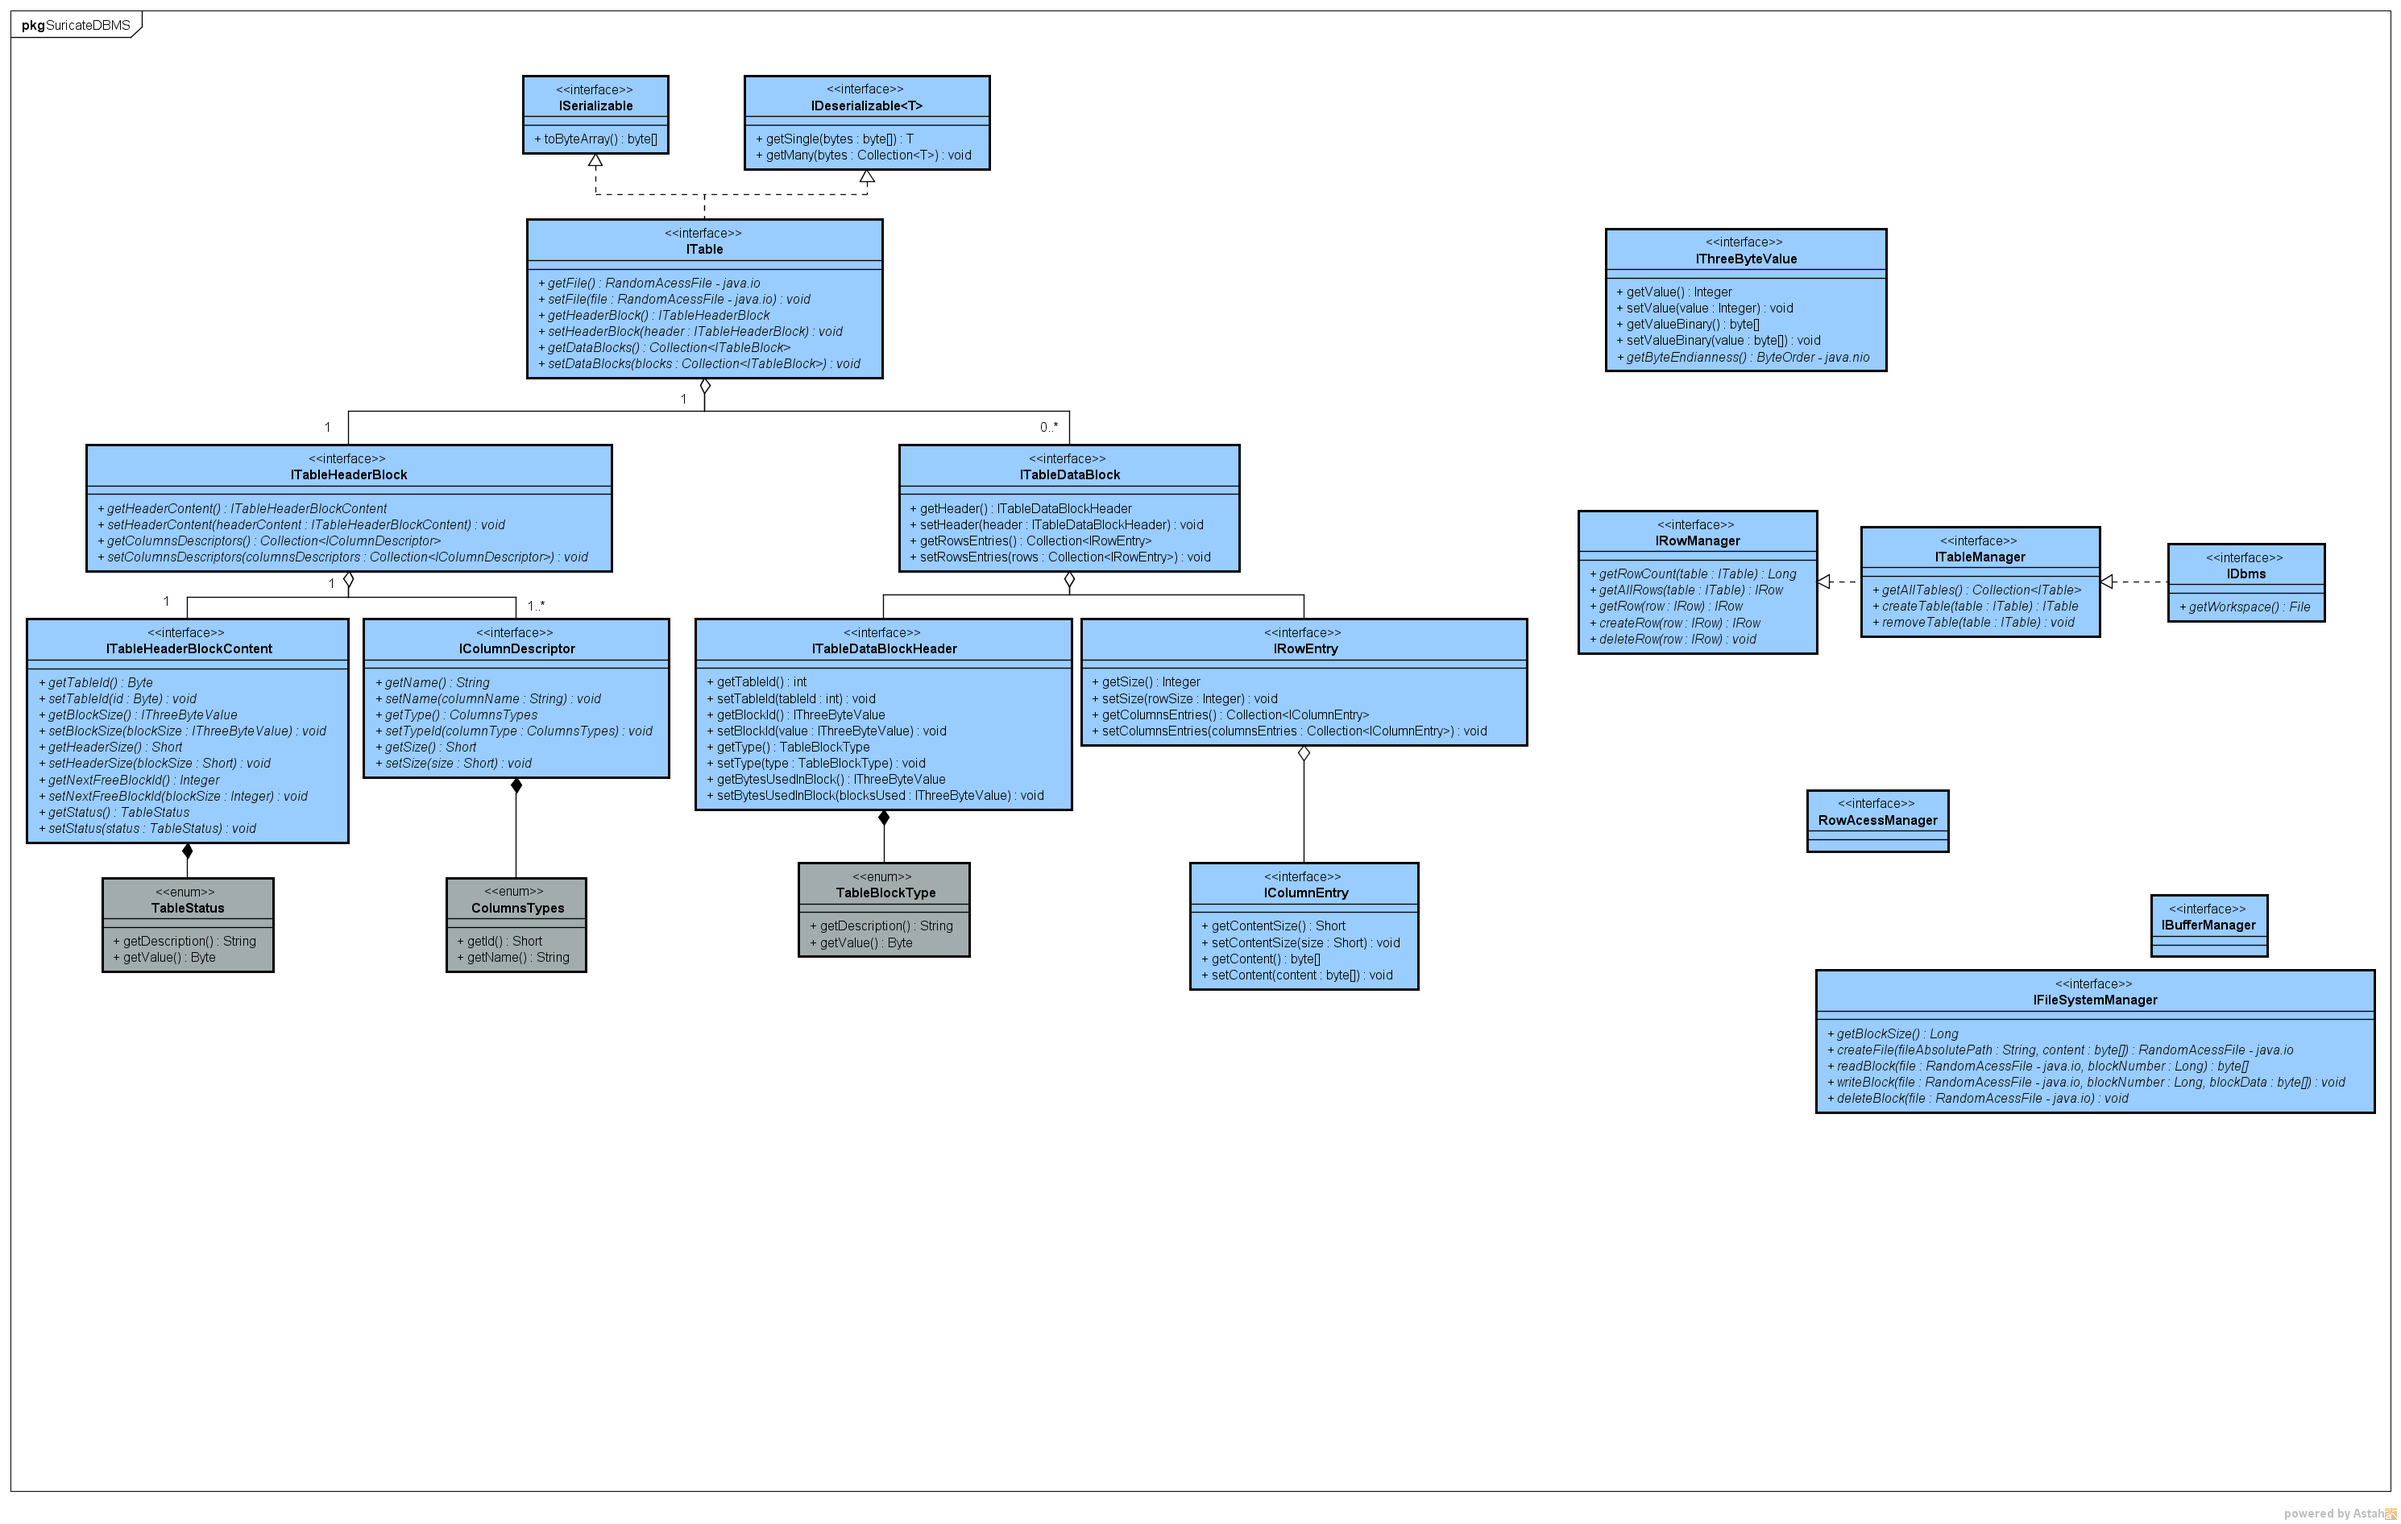
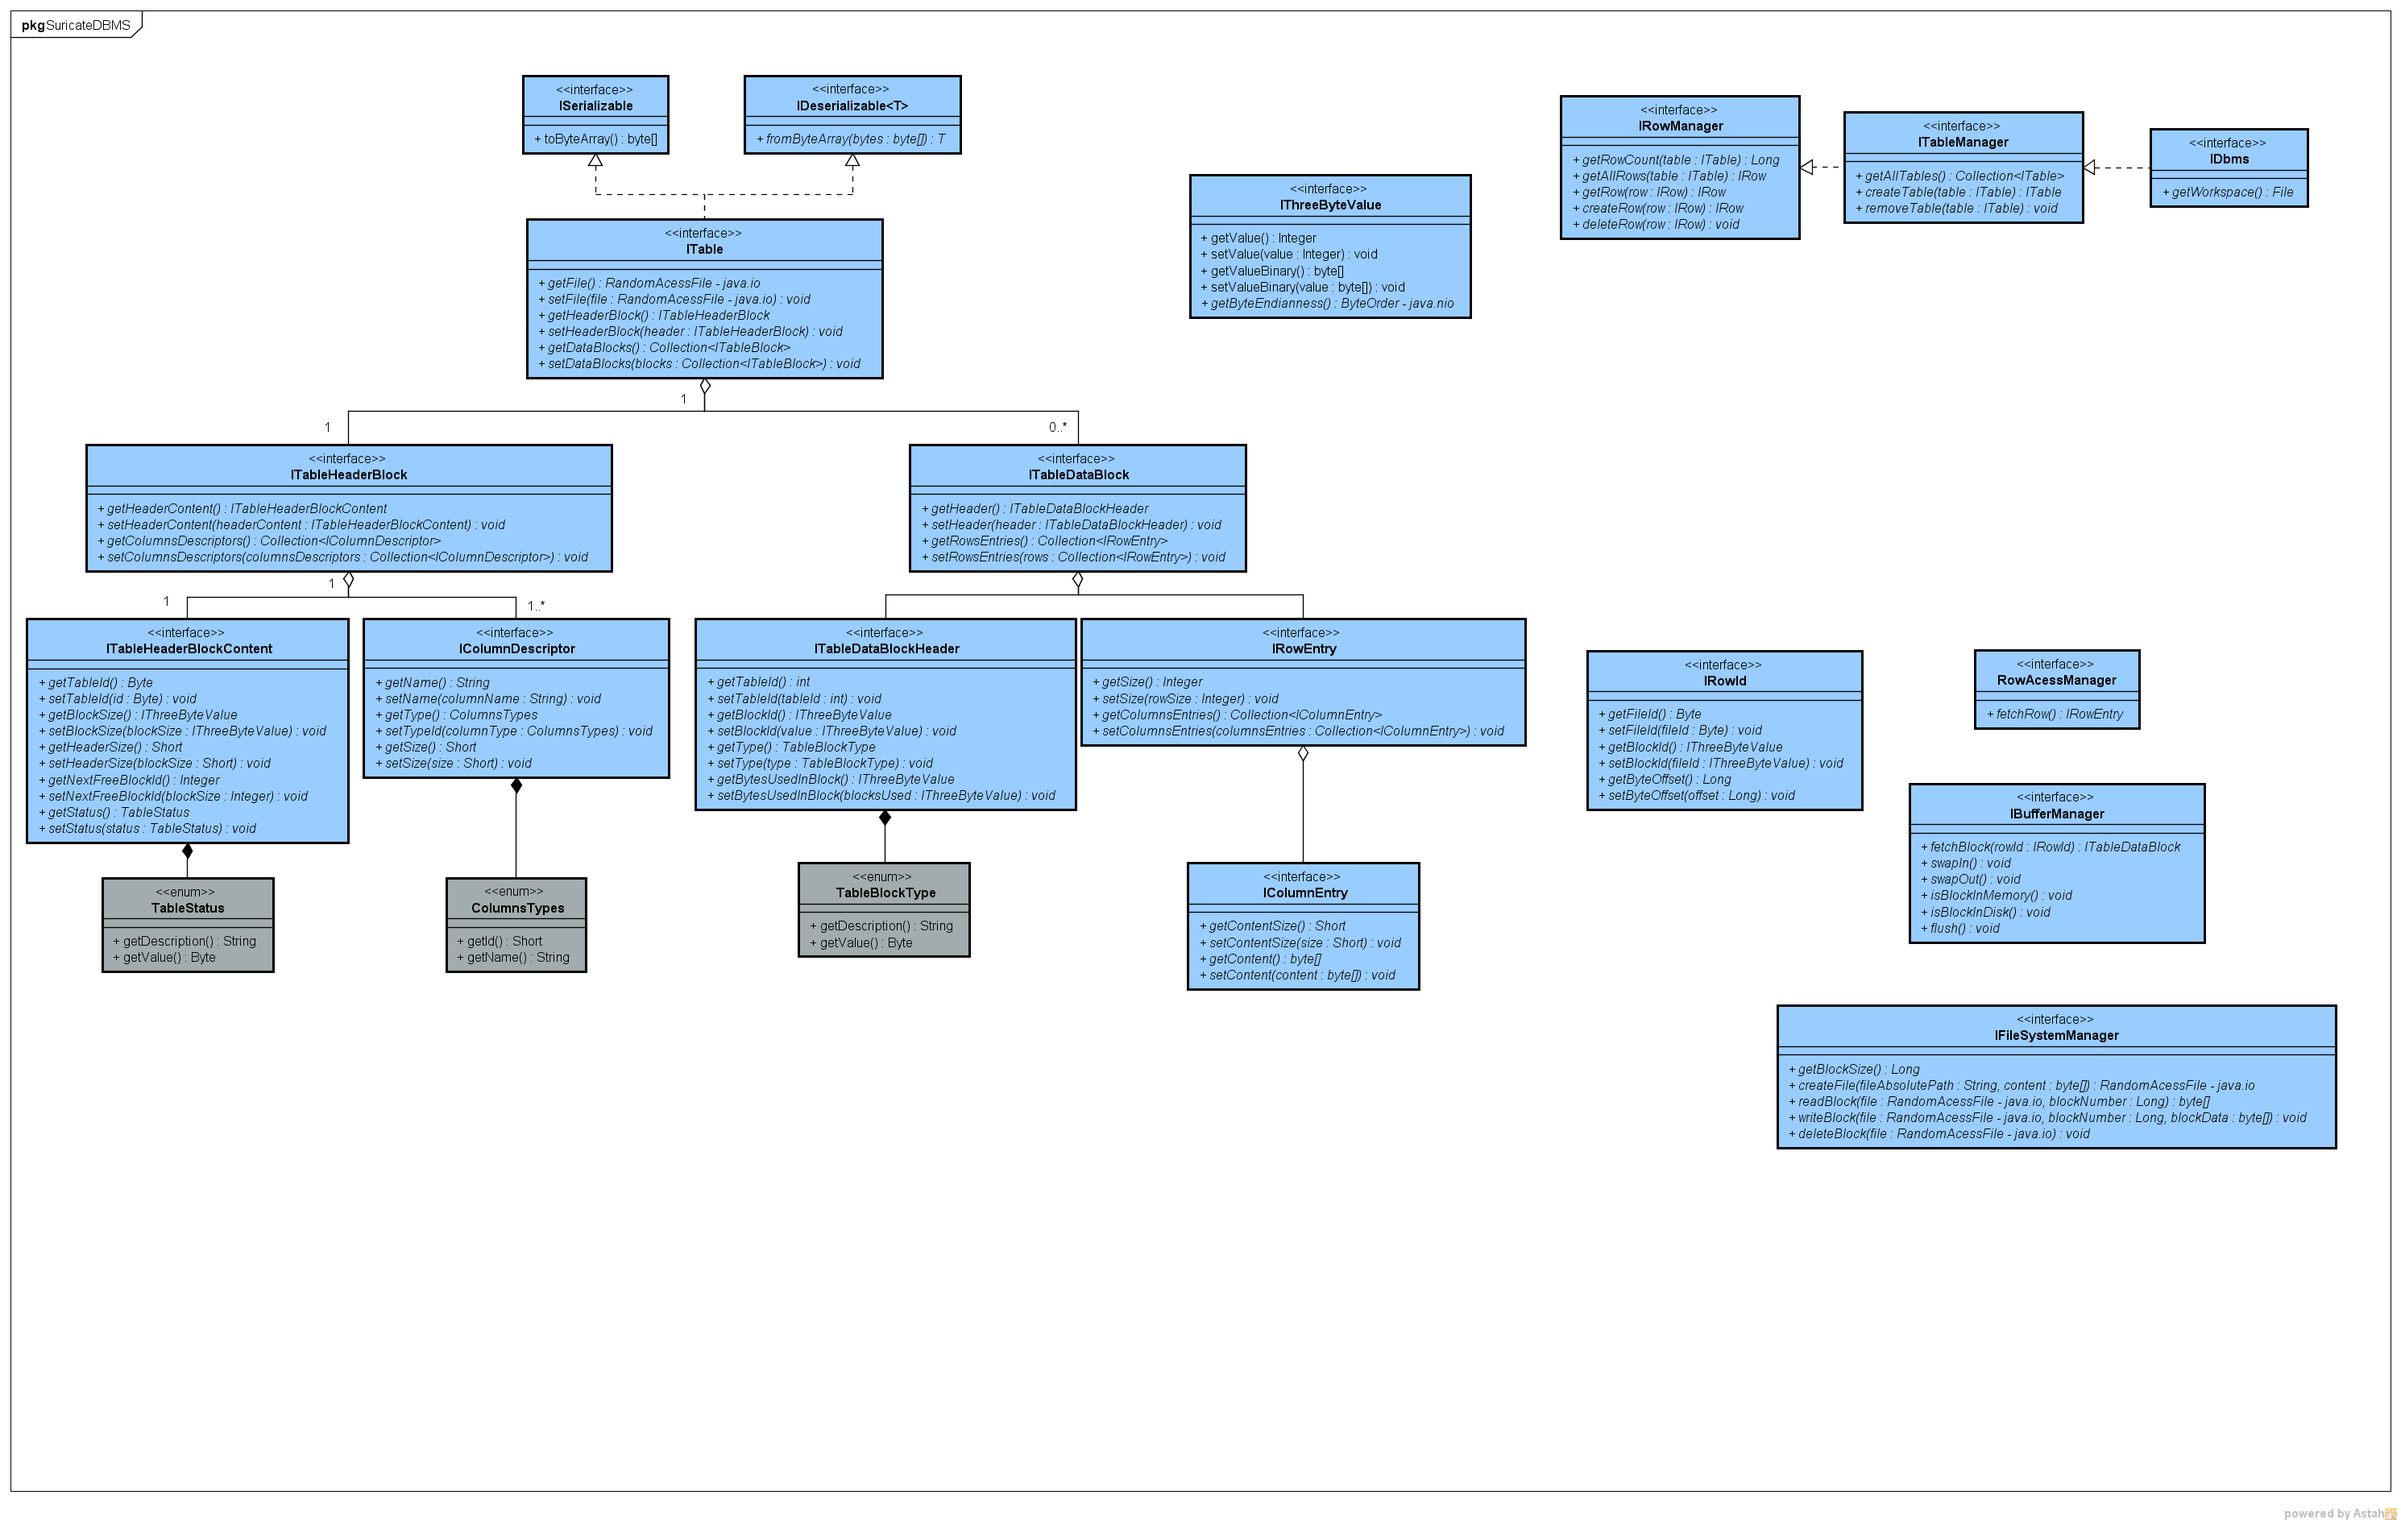
Commit of services

diff --git a/src/main/java/br/com/xavier/suricate/dbms/interfaces/services/IFileSystemManager.java b/src/main/java/br/com/xavier/suricate/dbms/interfaces/services/IFileSystemManager.java
@@ -1,0 +1,16 @@
+package br.com.xavier.suricate.dbms.interfaces.services;
+
+import java.io.RandomAccessFile;
+import java.io.Serializable;
+
+public interface IFileSystemManager
+		extends Serializable {
+	
+	Long getBlockSize();
+	RandomAccessFile createFile(String fileAbsolutePath);
+	RandomAccessFile createFile(String fileAbsolutePath, byte[] fileContent);
+	byte[] readBlock(RandomAccessFile file, Long blockId);
+	void writeBlock(RandomAccessFile file, Long blockId, byte[] content);
+	void deleteBlock(RandomAccessFile file, Long blockId);
+
+}

diff --git a/src/main/java/br/com/xavier/suricate/dbms/interfaces/table/access/IRowId.java b/src/main/java/br/com/xavier/suricate/dbms/interfaces/table/access/IRowId.java
@@ -1,0 +1,17 @@
+package br.com.xavier.suricate.dbms.interfaces.table.access;
+
+import java.io.Serializable;
+
+import br.com.xavier.suricate.dbms.interfaces.low.IThreeByteValue;
+
+public interface IRowId
+		extends Serializable {
+	
+	Byte getFileId();
+	void setFileId(Byte fileId);
+	IThreeByteValue getBlockId();
+	void setBlockId(IThreeByteValue blockId);
+	Long getByteOffset();
+	void setByteOffset(Long byteOffset);
+
+}

diff --git a/src/main/java/br/com/xavier/suricate/dbms/interfaces/services/IBufferManager.java b/src/main/java/br/com/xavier/suricate/dbms/interfaces/services/IBufferManager.java
@@ -1,0 +1,15 @@
+package br.com.xavier.suricate.dbms.interfaces.services;
+
+import br.com.xavier.suricate.dbms.interfaces.table.access.IRowId;
+import br.com.xavier.suricate.dbms.interfaces.table.data.ITableDataBlock;
+
+public interface IBufferManager {
+	
+	ITableDataBlock fetchBlock(IRowId rowId);
+	void swapIn();
+	void swapOut();
+	boolean isBlockInMemory();
+	boolean isBlockInDisk();
+	void flush();
+
+}

diff --git a/src/main/java/br/com/xavier/suricate/dbms/interfaces/services/IRowAcessManager.java b/src/main/java/br/com/xavier/suricate/dbms/interfaces/services/IRowAcessManager.java
@@ -1,0 +1,10 @@
+package br.com.xavier.suricate.dbms.interfaces.services;
+
+import java.io.Serializable;
+
+public interface IRowAcessManager
+		extends Serializable {
+	
+	
+
+}
